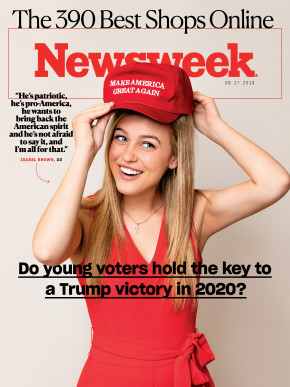
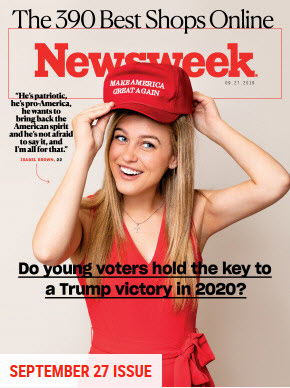
Completed Magazine Section

diff --git a/index.html b/index.html
@@ -496,38 +496,38 @@
             <section class="news-row mt-5">
                 <div class="in-the-magazine">
                     <div class="row">
-                        <div class="flex-md-3 mag-wrap">
+                        <div class="col-md-3 mag-wrap pt-5">
                             <div class="wrap">
-                                <a><img src="images/magazine-1.jpg" class="img-fluid" alt="Young Voters"><span class="img-text voters">SEPTEMBER 27 ISSUE</span></a>                                
+                                <a><img src="images/magazine-1.jpg" class="img-fluid" alt="Young Voters"></a>                                
                             </div>
                             <p class="grey">See All Features</p>
                         </div>
-                        <div class="col-md-9 mag-list pl-4">
+                        <div class="col-md-9 col-lg-9 mag-list pl-4">
                             <div class="row justify-content-center title-border">
                                 <span class="col-12 nw-logo-small"></span>
                                 <span class="part-title">IN THE MAGAZINE</span>
                             </div>
                             <div class="row top">
-                                <article class="col-sm-4 pl-0">
+                                <article class="col-md-4 pl-0">
                                     <div class="magazine-img magazine-img1"></div>
                                     <div class="category">
-                                        <span class="mag-cat">Features</span>
+                                        <span class="mag-cat">Cover</span>
                                         <span class="cat"><a href="/us">U.S.</a></span>
                                     </div>
-                                    <a href="#" class="mag-link"><h5 class="article-title">Adam Schiff Says Donald Trump Should Be Prosecuted</h5></a>
+                                    <a href="#" class="mag-link"><h5 class="article-title">Young Trump Voters Like These Are Key to a 2020 Victory</h5></a>
                                 </article>
-                                <article class="col-sm-4 pl-0">
+                                <article class="col-md-4 pl-0">
                                     <div class="magazine-img magazine-img2"></div>
                                     <div class="category">
-                                        <span class="mag-cat">Features</span>
+                                        <span class="mag-cat">Download</span>
                                         <span class="cat"><a href="/us">Politics</a></span>
                                     </div>
                                     <a href="#" class="mag-link"><h5 class="article-title">Amy McGrath on How She Plans to Beat Mitch McConnell in 2020</h5></a>
                                 </article>
-                                <article class="col-sm-4 pl-0">
+                                <article class="col-md-4 pl-0">
                                     <div class="magazine-img magazine-img3"></div>
                                     <div class="category">
-                                        <span class="mag-cat">Features</span>
+                                        <span class="mag-cat">Download</span>
                                         <span class="cat"><a href="/us">TECH & SCIENCE</a></span>
                                     </div>
                                     <a href="#" class="mag-link"><h5 class="article-title">What Animals Can Teach Us About Teenagers' Risky Behavior</h5></a>
@@ -536,7 +536,38 @@
                         </div>
                     </div>
                 </div>
-                               
+                <div class="in-the-magazine">
+                    <div class="row mt-4">
+                        <article class="col-md-3 mag-list">
+                            <div class="magazine-img magazine-img4"></div>
+                            <div class="category">
+                                <span class="mag-cat">Cover</span>
+                                <span class="cat"><a href="/us">CULTURE</a></span>
+                            </div>
+                                <a href="#" class="mag-link"><h5 class="article-title">How Two Authors Changed Their Parenting Styles After Studying Animals</h5></a>
+                        </article>
+                        <article class="col-md-3 mag-list">
+                            <div class="magazine-img magazine-img5"></div>
+                            <div class="category">
+                                <span class="mag-cat">Download</span>
+                                <span class="cat"><a href="/us">cULTURE</a></span>
+                            </div>
+                                <a href="#" class="mag-link"><h5 class="article-title">9 of the Most Stunning Hiking Trails in the World</h5></a>
+                        </article>
+                        <article class="col-md-3 mag-list">
+                            <div class="magazine-img magazine-img6"></div>
+                            <div class="category">
+                                <span class="mag-cat">Download</span>
+                                <span class="cat"><a href="/us">CULTURE</a></span>
+                            </div>
+                                <a href="#" class="mag-link"><h5 class="article-title">Michelle Dockery on the Downton Abbey Movie</h5></a>
+                        </article>
+                        <article class="col-md-3 mag-list">
+                            <div class="magazine-img magazine-img7""></div>
+                            <a href="#" class="mag-link"><h5 class="article-title pt-5">Young Trump Voters Like These Are Key to a 2020 Victory</h5></a>
+                        </article>
+                    </div>
+                </div>         
             </section>
         </main>
         <footer></footer>

diff --git a/css/style.css b/css/style.css
@@ -308,8 +308,16 @@ h3:hover {
   background-color: rgb(244, 245, 247);
 }
 
+.culture > a {
+  text-decoration: none;
+}
+
 .culture > a > h3 {
   font: 20px/22px "Lora", serif;
+}
+
+.culture > a > h3:hover {
+  text-decoration: underline red;
 }
 
 .culture-summary {
@@ -448,11 +456,6 @@ h3:hover {
   width: 8px;
 }
 
-.voters {
-  bottom: 38px;
-  left: 15px;
-}
-
 .nw-logo-small {
   background-color: #f72210;
   background-image: url(../images/logo-n1.svg);
@@ -495,6 +498,26 @@ h3:hover {
 }
 
 .magazine-img3 {
+  background-image: url(../images/mag-3.jpg);
+}
+
+.magazine-img4 {
+  background-image: url(../images/mag-4.jpg);
+}
+
+.magazine-img5 {
+  background-image: url(../images/mag-5.jpg);
+}
+
+.magazine-img6 {
+  background-image: url(../images/mag-6.jpg);
+}
+
+.magazine-img7 {
+  background-image: url(../images/mag-7.jpg);
+}
+
+.magazine-img8 {
   background-image: url(../images/mag-3.jpg);
 }
 
@@ -666,6 +689,10 @@ h3:hover {
   .latest-img,
   .more-images {
     max-width: 258px;
+  }
+
+  .magazine-img {
+    height: 52vw;
   }
 }
 
